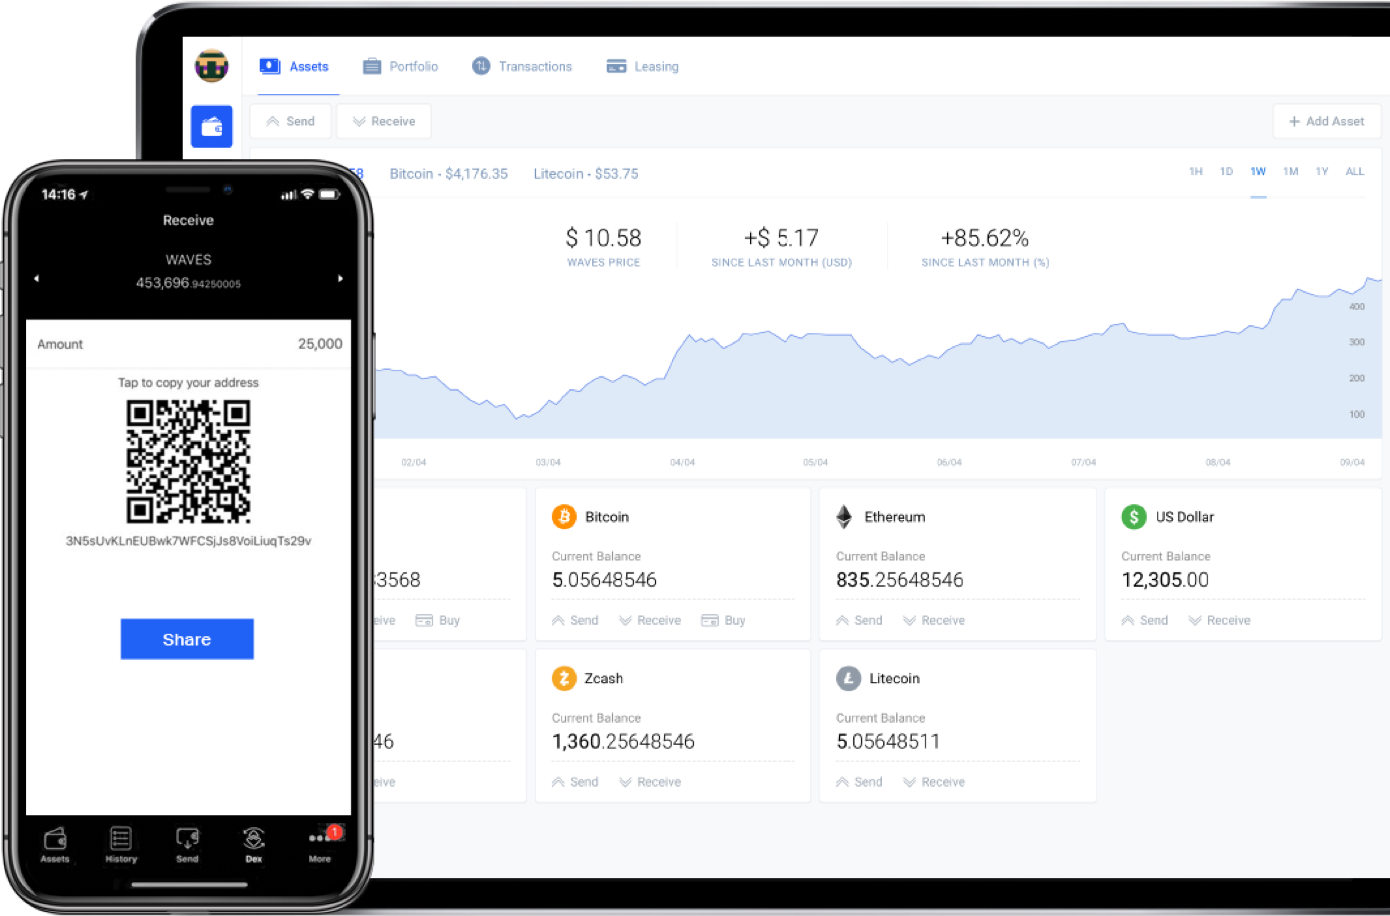
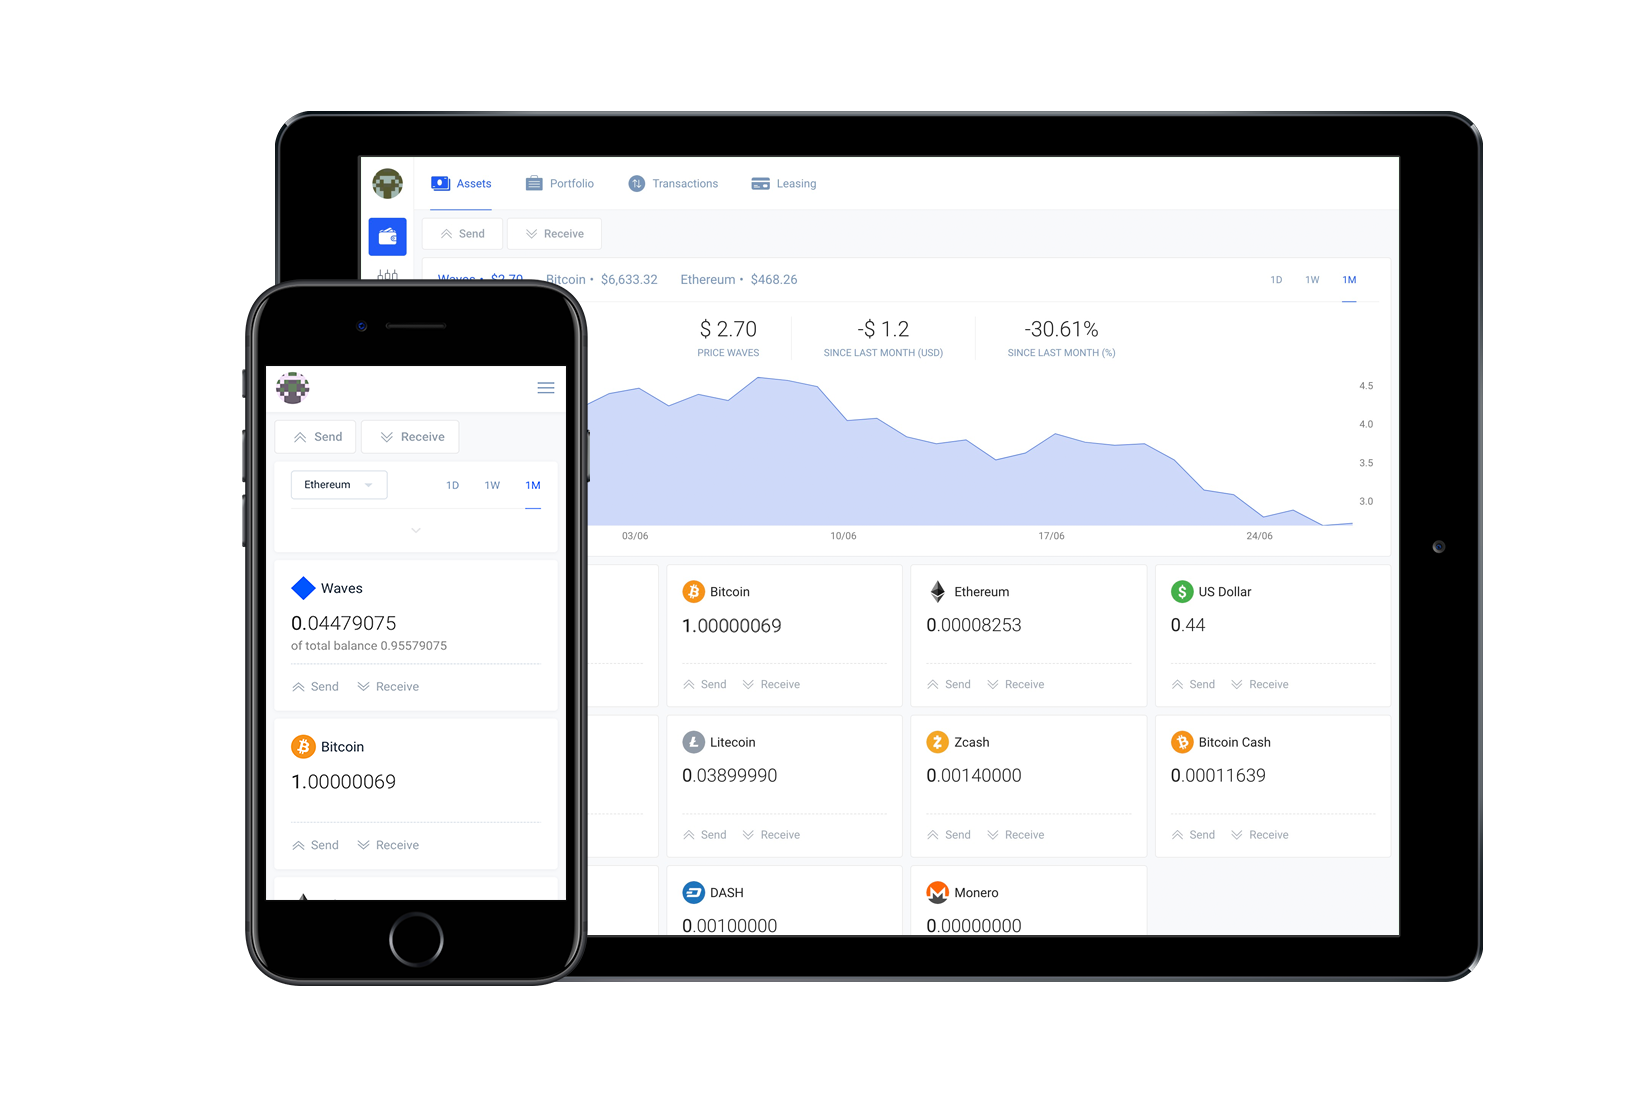
New images for dex on main

diff --git a/src/common/containers/Main/lib/WavesClient/styles.js b/src/common/containers/Main/lib/WavesClient/styles.js
@@ -9,7 +9,7 @@ const styles = theme => ({
   },
   imageCol: {
     position: 'absolute',
-    right: -20,
+    right: 0,
     width: '100%',
     bottom: -100,
     margin: [theme.spacing.unit * 4, 0, theme.spacing.unit * 2],
@@ -28,12 +28,16 @@ const styles = theme => ({
     left: 0,
     width: '100%',
   },
+  [theme.breakpoints.up('tablet')]: {
+    imageCol: {
+      right: '10vw',
+    },
+  },
   [theme.breakpoints.up('sm')]: {
     root: {
       marginBottom: 0,
     },
     imageCol: {
-      right: -theme.spacing.unit * 3,
       bottom: -110,
       width: '50%',
       maxWidth: '100%',
@@ -42,12 +46,13 @@ const styles = theme => ({
       width: 'auto',
     },
   },
-  [theme.breakpoints.up('md')]: {
+
+  [theme.breakpoints.up('lg')]: {
     imageCol: {
-      right: theme.spacing.unit * 1.5,
+      overflow: 'hidden',
+      right: 0,
     },
   },
-  [theme.breakpoints.up('lg')]: {},
 });
 
 export default styles;

diff --git a/src/common/containers/Main/lib/DEX/styles.js b/src/common/containers/Main/lib/DEX/styles.js
@@ -33,6 +33,7 @@ const styles = theme => ({
     imageWrapper: {
       position: 'absolute',
       right: '0',
+      width: '80%',
       top: `calc(${8 * theme.spacing.unit}px + 4em)`,
     },
   },
@@ -42,8 +43,14 @@ const styles = theme => ({
     },
     imageWrapper: {
       position: 'absolute',
+      width: '60%',
       right: '0',
       top: `calc(${16 * theme.spacing.unit}px + 4em)`,
+    },
+  },
+  [theme.breakpoints.up('lg')]: {
+    imageWrapper: {
+      width: '55%',
     },
   },
 });

diff --git a/src/common/containers/Main/lib/DEX/index.jsx b/src/common/containers/Main/lib/DEX/index.jsx
@@ -26,7 +26,6 @@ const DEX = ({ classes }) => (
       <div className={classes.imageWrapper}>
         <img
           src={require('./img/dexmain@1x.jpg')}
-          srcSet={`${require('./img/dexmain@1x.jpg')} 1x, ${require('./img/dexmain@2x.jpg')} 2x`}
           alt=""
           className={classes.image}
         />
